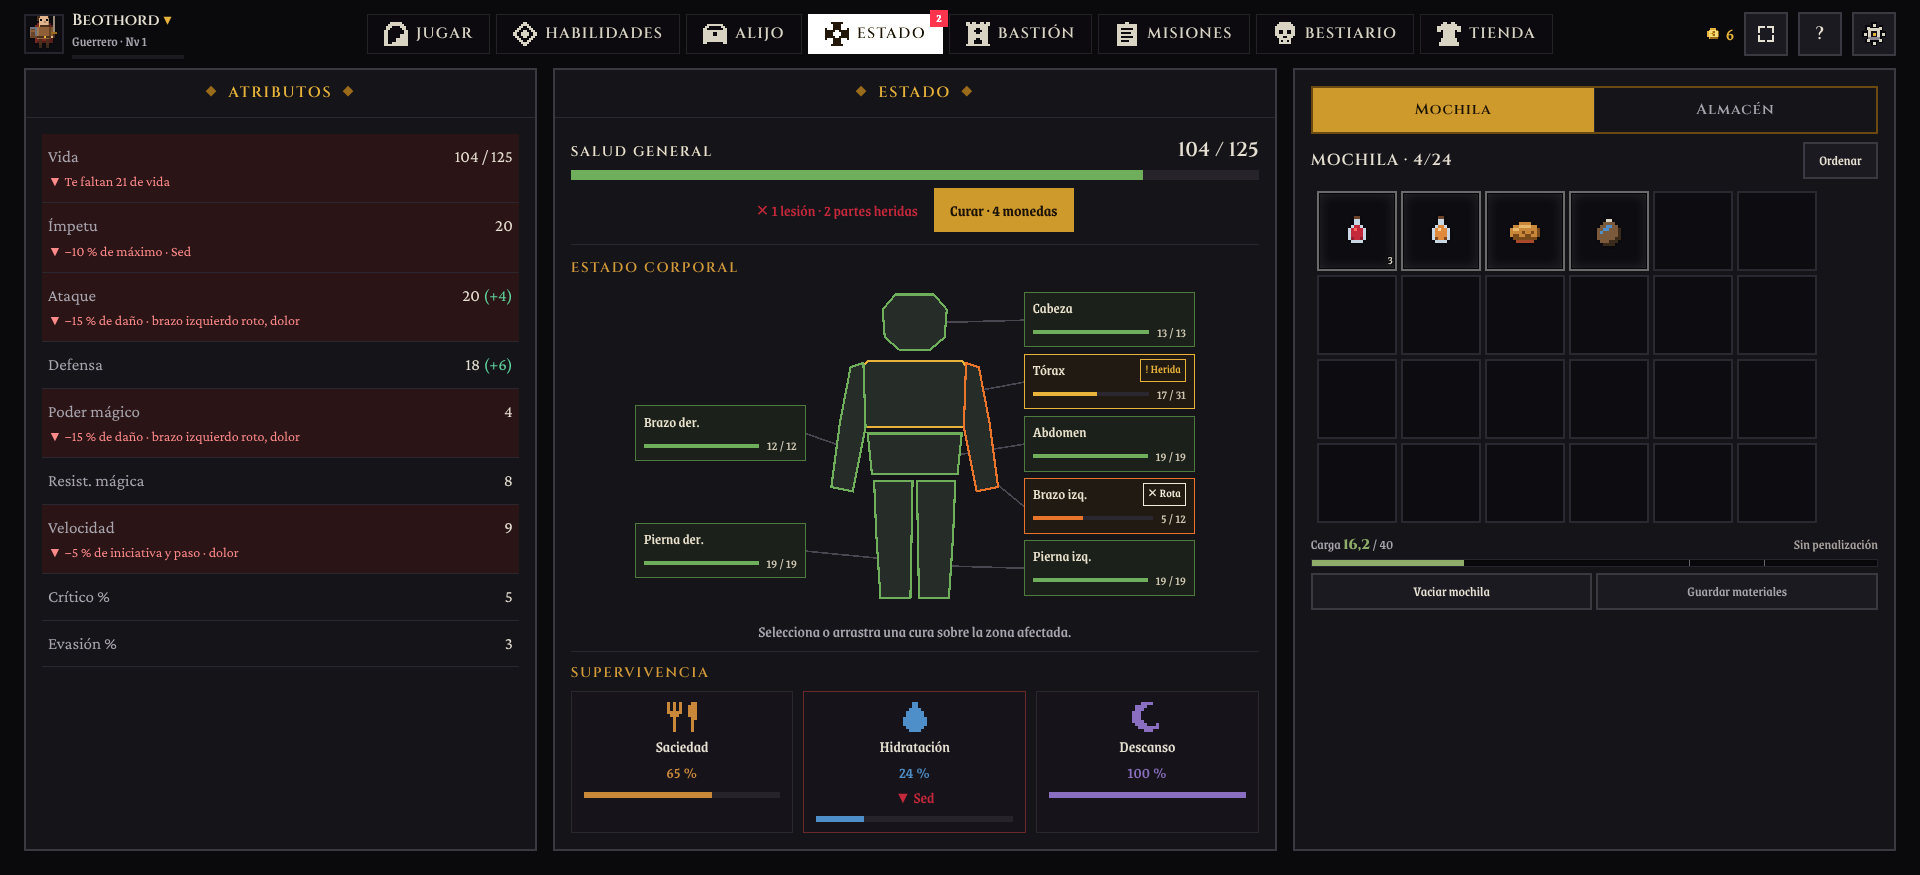
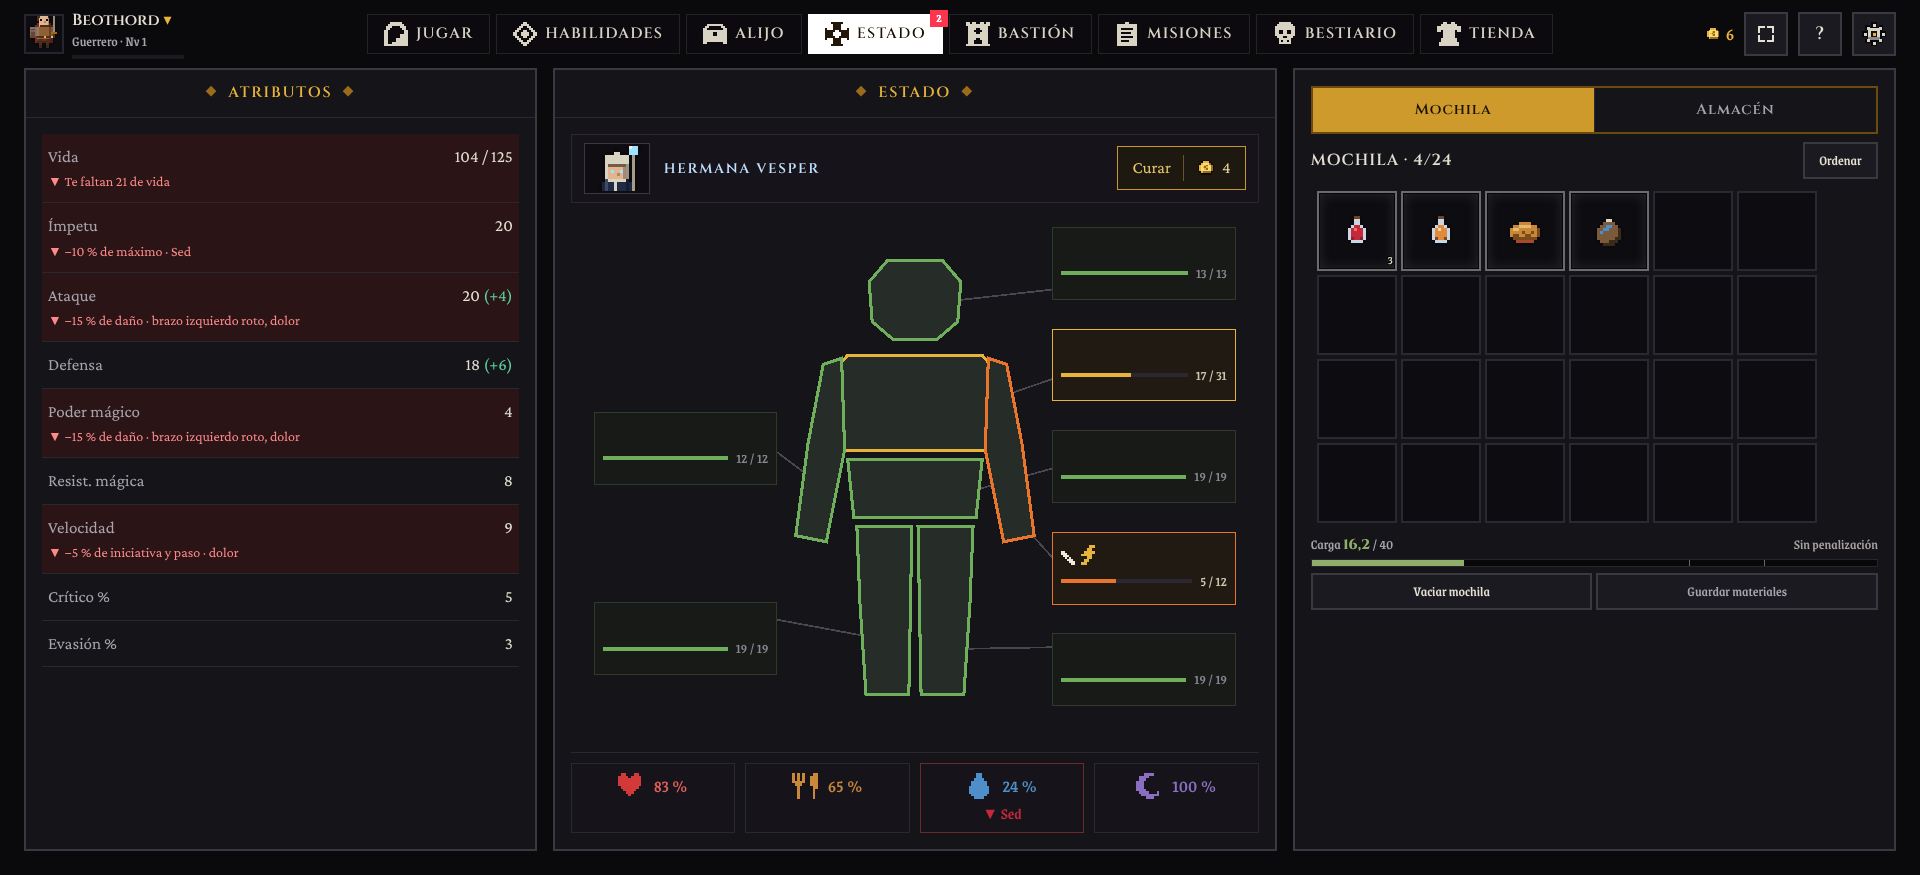
Gravevow (Vesrions 1.0.0.2)

diff --git a/src/game/ui/EstadoParts.tsx b/src/game/ui/EstadoParts.tsx
@@ -14,6 +14,8 @@ import { useCure } from './CureOffer';
 import { regionColor, regionWord, usefulOn, woundsOf } from './BodyFigure';
 import { PixelIcon } from '../../shared/community';
 import { ItemIcon } from './inventory';
+import { MiniBust } from './QuestNotes';
+import { VENDORS } from '../../core/data/vendors';
 import { COIN_ID } from '../../config/gold';
 import { regionCap, regionMaxes } from '../../core/anatomy';
 
@@ -72,37 +74,30 @@ export function StatusAttrs({ body }: { body: Body }) {
   );
 }
 
-/** Salud general: vida total con su barra, lesiones y el botón de Vesper («Curar · 5 monedas», desactivado si no llega). */
+/** Recuadro de Hermana Vesper (27/11): su busto y «Curar · moneda N» (gris si no llega).
+ *  Las lesiones ya se ven en el cuerpo; sano, «Sin heridas que tratar». */
 export function StatusTop({ body }: { body: Body }) {
   const gold = useGame((s) => s.profile!.gold);
   const cure = useCure();
-  const lesions = REGIONS.reduce((n, r) => n + woundsOf(body, r).filter((k) => k !== 'hurt').length, 0);
-  const hurt = REGIONS.filter((r) => woundsOf(body, r).length).length;
   const short = cure && !cure.free ? Math.max(0, cure.price - gold) : 0;
-  const hp = summaryHp(body);
   const missing = Math.round(body.total - bodyHp(body));
   const fixes = REGIONS.some((r) => woundsOf(body, r).some((k) => k !== 'hurt'));
   const restores = missing > 0 && fixes ? 'recupera toda la vida y cura todas las lesiones' : fixes ? 'cura todas las lesiones' : 'recupera toda la vida';
-  const pc = Math.max(0, Math.min(100, (hp / Math.max(1, body.total)) * 100));
   return (
-    <div className="estado-top" data-testid="estado-top">
-      <div className="estado-h"><span className="estado-cap">Salud general</span><span className="font-display text-parchment text-xl">{hp} / {body.total}</span></div>
-      <div className="estado-hp"><i style={{ width: `${pc}%`, background: pc > 75 ? '#6fae5a' : pc > 45 ? '#e8b33a' : '#d23a3a' }} /></div>
-      {(hurt > 0 || !!cure) && <div className="estado-h2">
-        <div className="flex flex-col">
-          {hurt ? <span className="text-blood" data-testid="body-banner"><span className="estado-dot" aria-hidden>●</span> {lesions ? `${lesions} ${lesions === 1 ? 'lesión' : 'lesiones'} · ` : ''}{hurt} {hurt === 1 ? 'parte herida' : 'partes heridas'}</span>
-            : null}
-          {missing > 0 && <span className="text-sm text-stone-400" data-testid="estado-missing">−{missing} puntos de vida</span>}
-        </div>
-        {cure && (
-          <button className={`estado-cure ${short > 0 ? 'off' : ''}`} disabled={short > 0} onClick={() => actions.vesperTreat()} data-testid="cure-btn"
-            title={`Hermana Vesper: ${restores}. Se paga del oro del almacén.${short > 0 ? ` Te faltan ${short} monedas.` : ''}`}
-            aria-label={cure.free ? 'Curar gratis' : `Curar por ${cure.price} ${cure.price === 1 ? 'moneda' : 'monedas'}${short > 0 ? `, te faltan ${short}` : ''}`}>
-            <span>Curar</span><span className="estado-cure-sep" aria-hidden />
-            {cure.free ? <span>gratis</span> : <span className="estado-cure-price"><ItemIcon itemId={COIN_ID} size={20} />{cure.price}</span>}
-          </button>
-        )}
-      </div>}
+    <div className="estado-top estado-vesper" data-testid="estado-top">
+      <span className="estado-vesper-bust" title="Hermana Vesper"><MiniBust sprite={VENDORS.vesper.sprite} scale={3} /></span>
+      <div className="flex flex-col min-w-0 flex-1">
+        <span className="estado-cap" style={{ color: '#bfe0ff' }}>Hermana Vesper</span>
+        {!cure && <span className="text-stone-400 text-sm" data-testid="body-banner">Sin heridas que tratar.</span>}
+      </div>
+      {cure && (
+        <button className={`estado-cure ${short > 0 ? 'off' : ''}`} disabled={short > 0} onClick={() => actions.vesperTreat()} data-testid="cure-btn"
+          title={`Hermana Vesper: ${restores}. Se paga del oro del almacén.${short > 0 ? ` Te faltan ${short} monedas.` : ''}`}
+          aria-label={cure.free ? 'Curar gratis' : `Curar por ${cure.price} ${cure.price === 1 ? 'moneda' : 'monedas'}${short > 0 ? `, te faltan ${short}` : ''}`}>
+          <span>Curar</span><span className="estado-cure-sep" aria-hidden />
+          {cure.free ? <span>gratis</span> : <span className="estado-cure-price"><ItemIcon itemId={COIN_ID} size={20} />{cure.price}</span>}
+        </button>
+      )}
     </div>
   );
 }
@@ -202,17 +197,22 @@ export function BodyMap({ body, shown, onPick }: { body: Body; shown: string | n
 const NEED_ICON: Record<string, string[]> = {
   sat: ['X.X.X...XX', 'X.X.X..XXX', 'X.X.X..XXX', 'XXXXX..XXX', '.XXX...XXX', '..X.....XX', '..X.....X.', '..X.....X.', '..X.....X.', '..X.....X.'],
   hyd: ['....XX....', '....XX....', '...XXXX...', '..XXXXXX..', '..XXXXXX..', '.XXXXXXXX.', '.XXXXXXXX.', '.XXXXXXXX.', '..XXXXXX..', '...XXXX...'],
+  hp: ['.XX...XX..', 'XXXX.XXXX.', 'XXXXXXXXX.', 'XXXXXXXXX.', 'XXXXXXXXX.', '.XXXXXXX..', '..XXXXX...', '...XXX....', '....X.....', '..........'],
   rest: ['...XXXX...', '.XXXX.....', '.XXX......', 'XXX.......', 'XXX.......', 'XXX.......', 'XXXX......', '.XXXX...X.', '..XXXXXXX.', '....XXX...'],
 };
 
 /** Supervivencia: Saciedad, Hidratación y Descanso en tres tarjetas; con 30 o menos, «▼ Hambre / Sed / Cansancio». */
-export function StatusNeeds() {
+export function StatusNeeds({ body }: { body: Body }) {
   const p = useGame((s) => s.profile)!;
+  const hpPct = Math.round((summaryHp(body) / Math.max(1, body.total)) * 100);
   const n = needsOf(p.needs);
   const prep = prepText(p.prep);
   return (
     <div className="estado-needs" data-testid="estado-needs">
       <div className="estado-need-row">
+        <div className={`estado-need ${hpPct < 100 ? 'low-hp' : ''}`} data-testid="need-hp" title="Vida" aria-label={`Vida: ${summaryHp(body)} de ${body.total} (${hpPct} %)`}>
+          <span className="estado-need-top"><PixelIcon rows={NEED_ICON.hp} size={26} color="#d23a3a" label="Vida" /><span className="text-lg" style={{ color: '#e0605a' }}>{hpPct} %</span></span>
+        </div>
         {NEEDS.map((k) => {
           const v = Math.round(n[k]);
           const low = v <= 30;

diff --git a/src/game/game.css b/src/game/game.css
@@ -1792,7 +1792,7 @@ div.hb-acard{cursor:default}
 .doll-word.bleed{color:#ff6b6b}.doll-word.frac{color:#f2ead8}.doll-word.hurt{color:#e8b33a}.doll-word.off{color:#a8a0b0}
 .doll-apply{position:absolute;bottom:-10px;left:50%;transform:translateX(-50%);background:#e8b33a;color:#1a1206;font-size:12px;font-weight:700;padding:0 6px;white-space:nowrap;z-index:1}
 .estado-needs{border-top:1px solid #2a2730;padding-top:10px;display:flex;flex-direction:column;gap:8px}
-.estado-need-row{display:grid;grid-template-columns:repeat(3,1fr);gap:10px}
+.estado-need-row{display:grid;grid-template-columns:repeat(4,1fr);gap:10px}
 .estado-need{display:flex;flex-direction:column;align-items:center;gap:2px;border:1px solid #2a2730;background:#16141a;padding:8px 12px;font-size:16px}
 .estado-need-top{display:flex;align-items:center;gap:10px}
 .estado-need.low{border-color:#6a2a2a}
@@ -1810,3 +1810,6 @@ div.hb-acard{cursor:default}
 @container (max-width:150px){.dw-t{display:none}}
 .estado-phone .bmap-ico{min-height:9px;gap:3px}.estado-phone .bmap-ico svg{width:9px;height:9px}.estado-phone .bmap-g i{width:3px}
 .bmap-card{gap:6px}.bmap-hp{font-size:14px}
+.estado-vesper{display:flex;align-items:center;gap:14px;border:1px solid #2a2730;background:#16141a;padding:8px 12px;margin-bottom:6px}
+.estado-vesper-bust{border:1px solid #3a3741;background:#0f0d12;padding:2px}
+.estado-phone .estado-vesper{padding:3px 6px;gap:8px;margin-bottom:2px}.estado-phone .estado-vesper-bust img{transform:none}

diff --git a/src/game/ui/screens/Alijo.tsx b/src/game/ui/screens/Alijo.tsx
@@ -236,7 +236,7 @@ export function Alijo({ onShop, section }: { onShop?: () => void; section?: 'sta
             <div className="flex-1 min-h-0 flex flex-col" data-testid="intendencia-status">
               <StatusTop body={body} />
               <div className="flex-1 min-h-0 flex items-center justify-center estado-doll"><BodyMap body={body} shown={shown} onPick={onPart} /></div>
-              <StatusNeeds />
+              <StatusNeeds body={body} />
             </div>
           ) : <div className="flex-1 min-h-0 overflow-y-auto scroll-thin pr-1 al-stats-tight"><StatusAttrs body={body} /></div>}
         </div>
@@ -328,7 +328,7 @@ export function Alijo({ onShop, section }: { onShop?: () => void; section?: 'sta
               <div className="flex-1 min-h-0 flex items-center justify-center estado-doll">
                 <BodyMap body={body} shown={shown} onPick={onPart} />
               </div>
-              <StatusNeeds />
+              <StatusNeeds body={body} />
             </div>
           </Panel>
           <Panel className="min-h-0" bodyClassName="overflow-y-auto scroll-thin flex flex-col">
